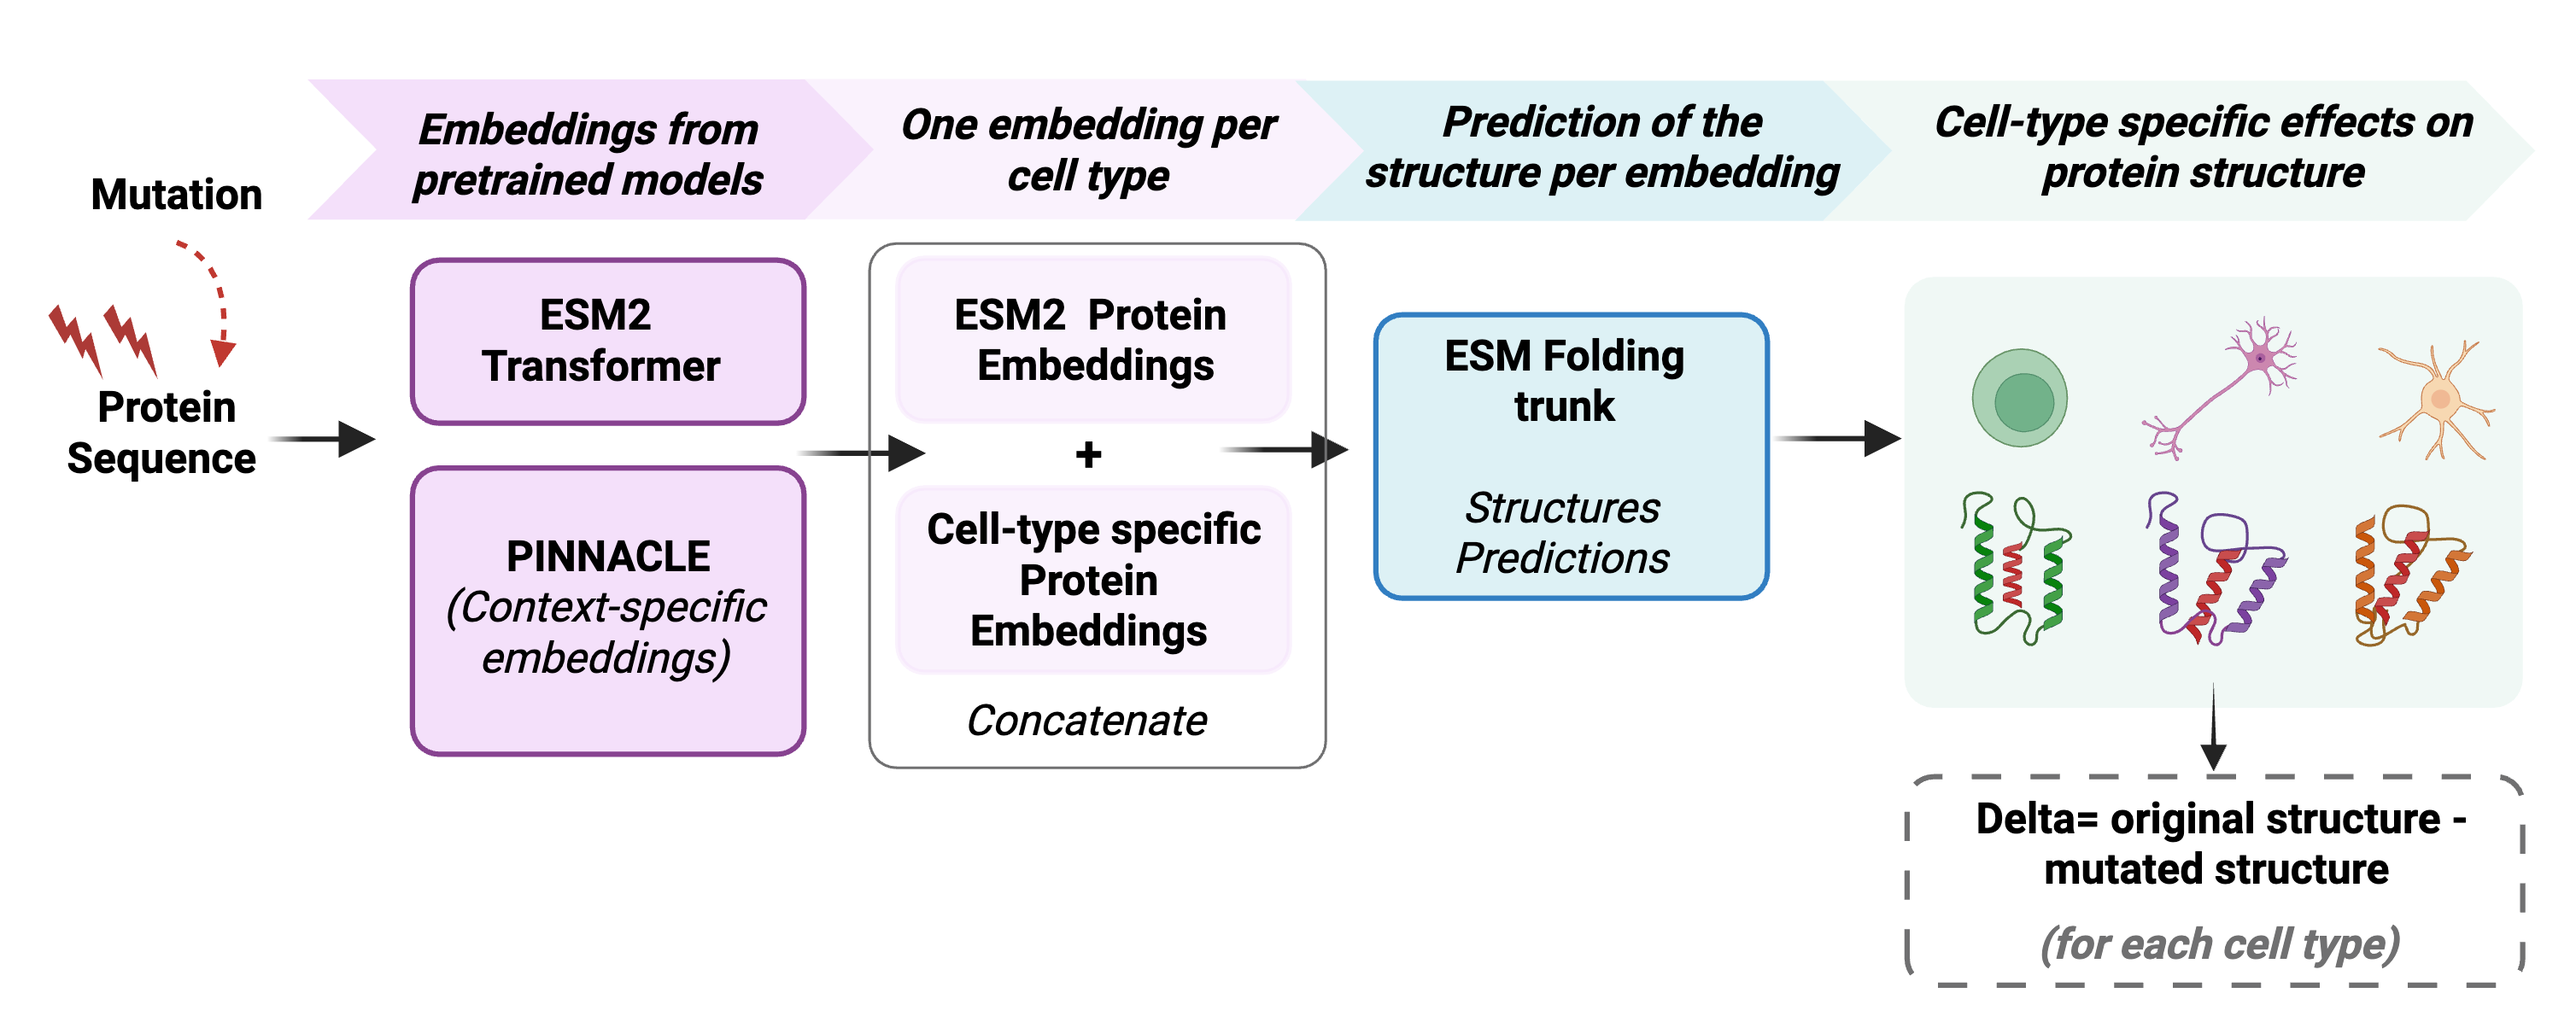
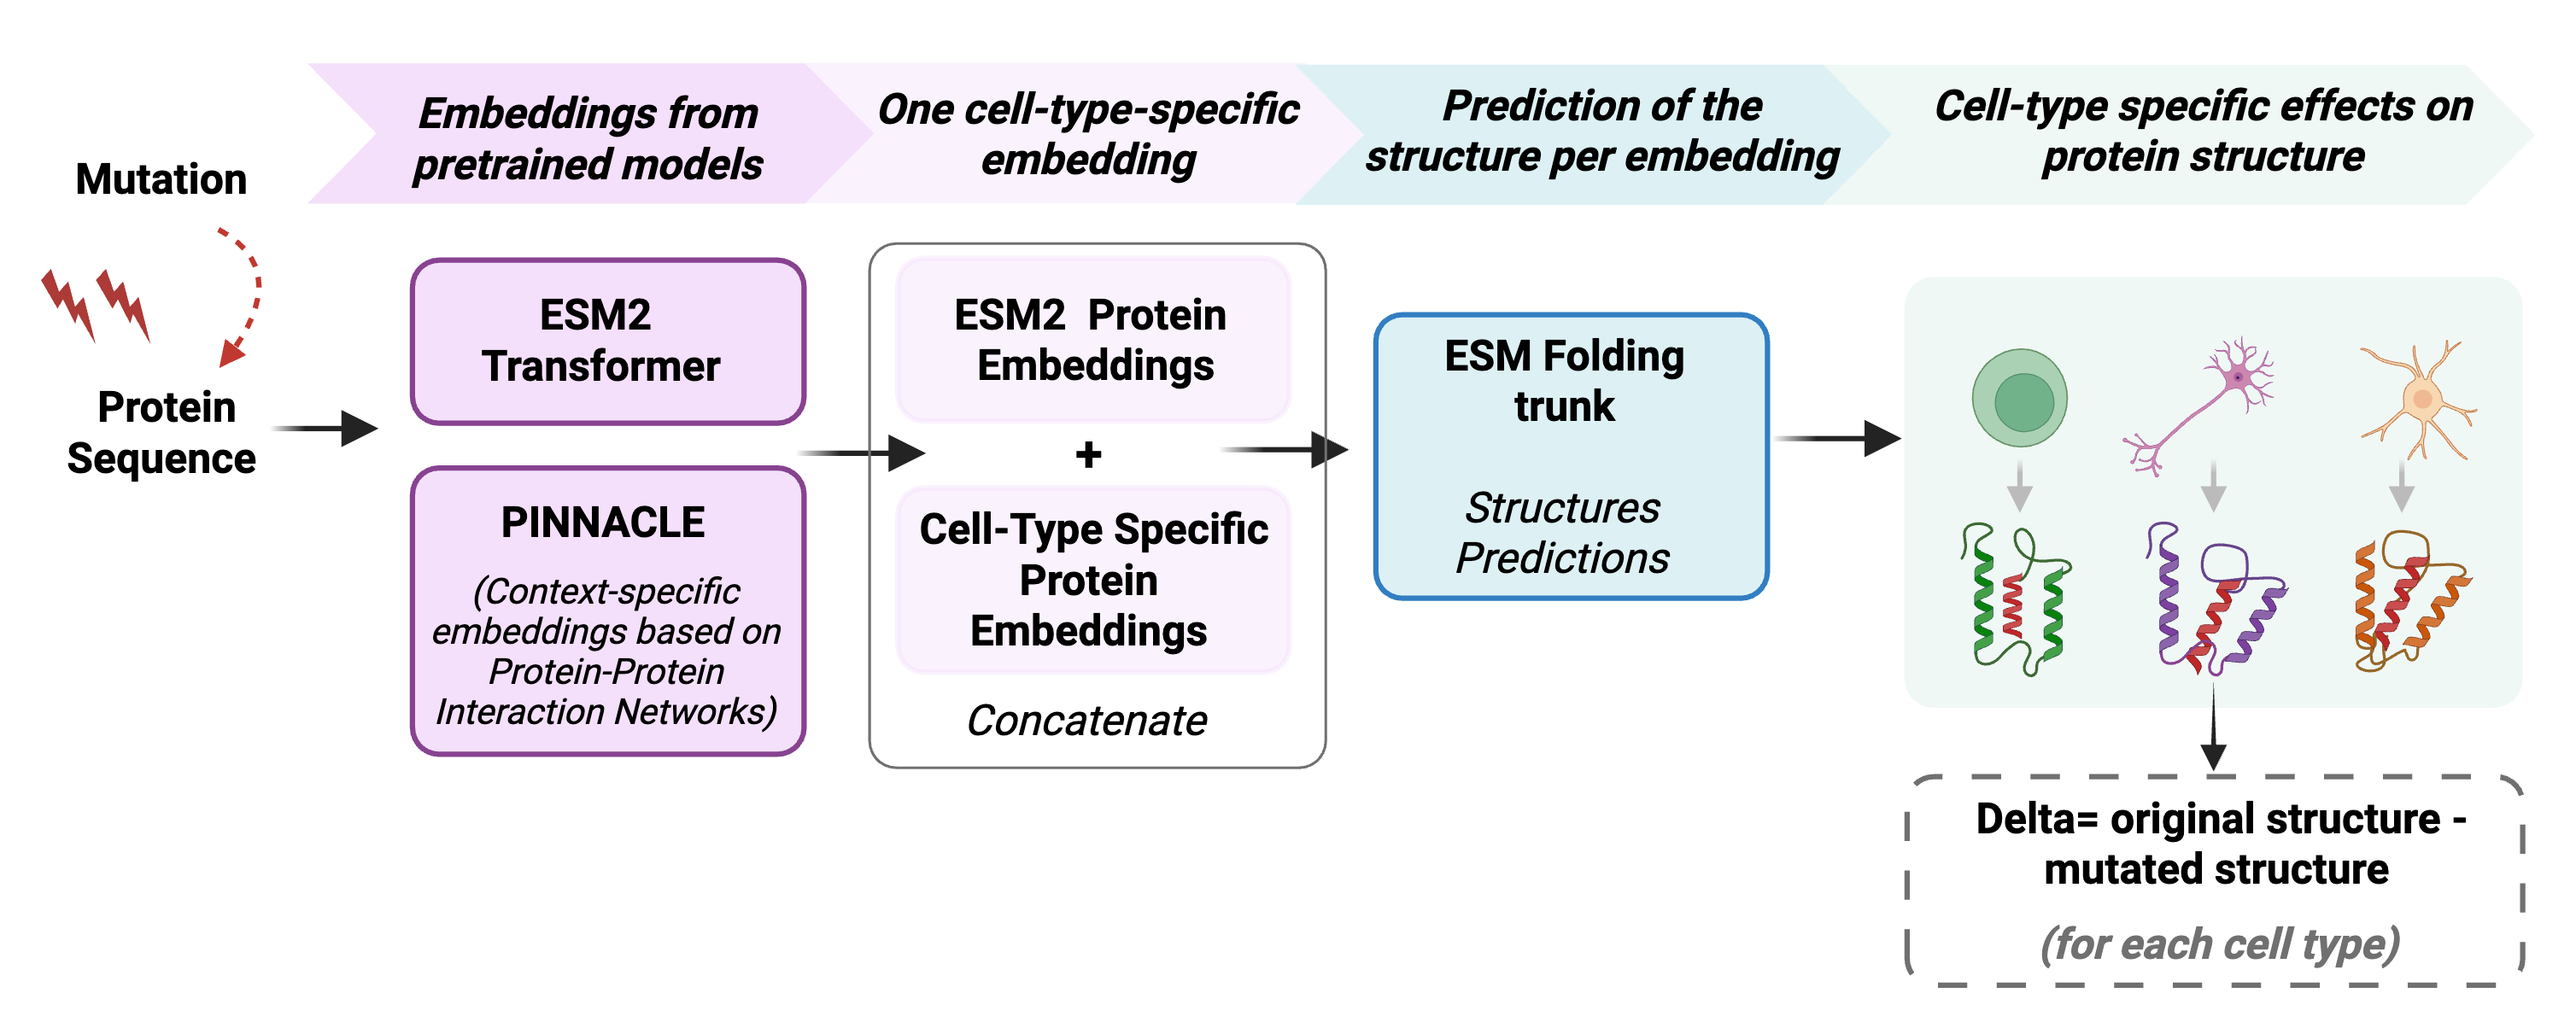
Added precisions on README

diff --git a/README.md b/README.md
@@ -6,13 +6,14 @@ This README explains how to build the interactive platform for predicting and vi
 <br>
 *Yale University*
 
-![Workflow overview](images/Graphical_Abstract_LLM_Final_Project.png)
-*Graphical abstract created with BioRender.* 
+![Platform example](simulations_examples/Platform_example.png)
+*Visualization of StructCell Platform for cell-type-specific predictions.*
+
 <br>
 <br>
 
-![Platform example](Platform_simulations_examples/Platform_example.png)
-*Visualization of StructCell Platform for cell-type-specific predictions.*
+![Workflow overview](images/Graphical_Abstract_LLM_Final_Project.png)
+*Graphical abstract created with BioRender.* 
 
 ## Requirements
 
@@ -82,12 +83,14 @@ Then open `http://localhost:5000` in your browser.
 
 `flask_scripts/app.py` extracts ESM2 sequence embeddings, aggregates them with cell type-specific PINNACLE embeddings, and reinjects the combined representation into the ESMFold decoder to generate cell type-aware protein structures. Each prediction is then compared to a baseline structure (ESMFold without PINNACLE context) using US-align, which reports TM-score and RMSD.
 
+It is also possible to test the effects of coding variants by mutating the input sequence. This platform therefore serves two purposes: predicting the structures of wild-type proteins across cell types, and detecting whether some coding variants have stronger structural effects in certain cell types than in others.
+
 ## Examples of cell-type specific predictions
 `simulations_examples/` contains 2 examples of cell-type specific predictions for 2 different proteins, p53 and Calm1.
 
 ## Acknowledgements
 
-StructCell leverages two published models, PINNACLE and ESM2:
+StructCell leverages two published models, PINNACLE and ESM2.
 
 Li, M.M., Huang, Y., Sumathipala, M., Liang, M.Q., Valdeolivas, A., Ananthakrishnan, A.N., Liao, K., Marbach, D., and Zitnik, M. (2024). Contextual AI models for single-cell protein biology. Nat Methods 21, 1546–1557. https://doi.org/10.1038/s41592-024-02341-3. 
 
